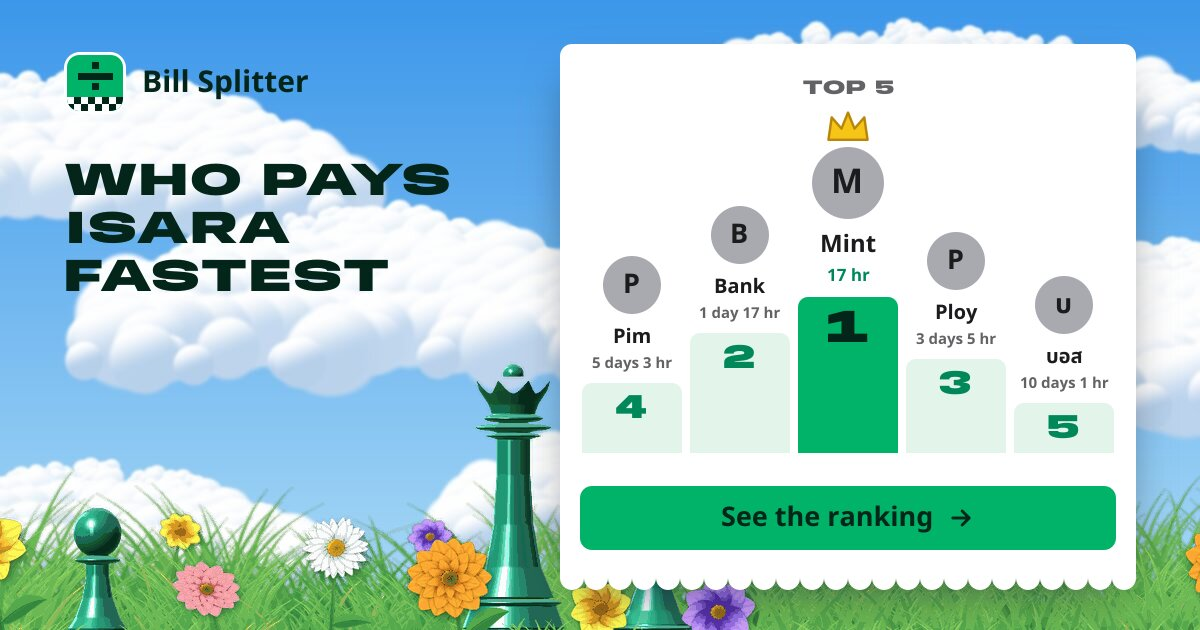
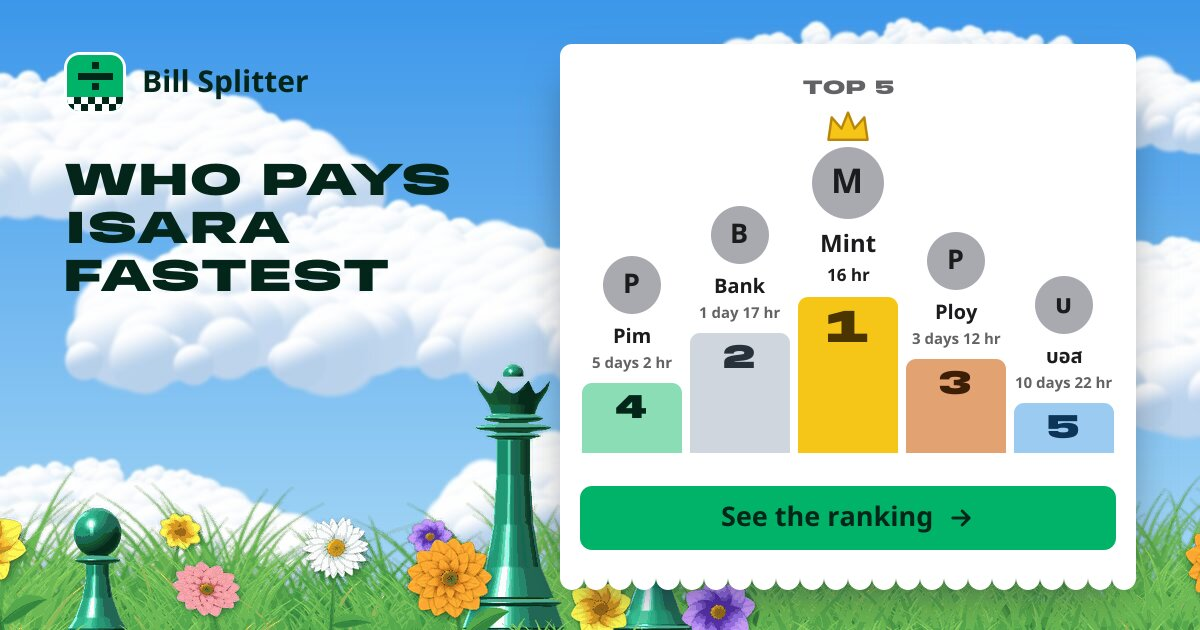
Who pays fastest: a colour for each of the top five (#33)
Gold, silver, bronze, mint and sky for places 1–5, on the podium (page and link
preview) and as badges on the ranking's top five. One palette in lib/colors.ts,
the same in light and dark. README and its two podium screenshots updated.

Changed region(s): [[0.4625, 0.4222, 0.9558, 0.7238]]

diff --git a/src/app/o/[id]/fastest/page.tsx b/src/app/o/[id]/fastest/page.tsx
@@ -7,6 +7,7 @@ import { FastestHide } from "@/components/FastestHide";
 import { FastestShare } from "@/components/FastestShare";
 import { BillHeader } from "@/components/Poster";
 import { Avatar, ICON, Money } from "@/components/ui";
+import { PLACE_COLORS } from "@/lib/colors";
 import { langOf } from "@/lib/lang";
 import { DAY, duration, payTimes, whoStillOwes, withoutHidden, withStarts, type PayerTimes } from "@/lib/owed";
 import { boardBills, boardHidden, boardSkipped, boardStarts, isValidId, storageReady } from "@/lib/server/redis";
@@ -100,9 +101,17 @@ function PayerCard({ p, rank }: { p: PayerTimes; rank: number }) {
     <li className="card overflow-hidden">
       <details className="group">
         <summary className="flex min-h-[76px] cursor-pointer list-none items-center gap-3 py-3 pr-4 pl-4 [&::-webkit-details-marker]:hidden">
-          <span className="flex w-7 shrink-0 justify-center text-[17px] font-bold text-ink-2 tabular-nums">
-            {rank === 1 ? <Trophy size={20} {...ICON} className="text-accent" aria-label="First" /> : rank}
-          </span>
+          {rank <= 5 ? (
+            <span
+              className="grid size-7 shrink-0 place-items-center rounded-full text-[15px] font-bold tabular-nums"
+              style={{ background: PLACE_COLORS[rank - 1].fill, color: PLACE_COLORS[rank - 1].ink }}
+            >
+              <span className="sr-only">Place </span>
+              {rank}
+            </span>
+          ) : (
+            <span className="flex w-7 shrink-0 justify-center text-[17px] font-bold text-ink-2 tabular-nums">{rank}</span>
+          )}
           <Avatar person={p.look} size={40} />
           <span className="min-w-0 flex-1">
             <span className="block truncate text-[17px] font-semibold" {...langOf(p.look.name)}>
@@ -185,18 +194,15 @@ function Podium({ top }: { top: PayerTimes[] }) {
             );
           return (
             <li key={p.key} className="flex w-1/5 max-w-24 min-w-0 flex-col items-center">
-              {first && <Trophy size={20} {...ICON} className="mb-1 text-accent" aria-hidden />}
+              {first && <Trophy size={20} {...ICON} className="mb-1" style={{ color: "#B8860B" }} fill={PLACE_COLORS[0].fill} aria-hidden />}
               <Avatar person={p.look} size={first ? 48 : 38} />
               <span className="mt-1 w-full truncate text-center text-[13px] font-semibold" {...langOf(p.look.name)}>
                 {p.look.name}
               </span>
-              <span className={cx("mb-1.5 w-full truncate text-center text-[11px]", first ? "font-semibold text-accent" : "text-ink-2")}>{duration(p.avgMs)}</span>
+              <span className={cx("mb-1.5 w-full truncate text-center text-[11px]", first ? "font-semibold text-ink" : "text-ink-2")}>{duration(p.avgMs)}</span>
               <span
-                className={cx(
-                  "flex w-full justify-center rounded-t-[8px] pt-1.5 text-[20px] font-bold tabular-nums",
-                  STEP[i],
-                  first ? "bg-accent-fill text-accent-ink" : "bg-[var(--field)] text-ink-2",
-                )}
+                className={cx("flex w-full justify-center rounded-t-[8px] pt-1.5 text-[20px] font-bold tabular-nums", STEP[i])}
+                style={{ background: PLACE_COLORS[i].fill, color: PLACE_COLORS[i].ink }}
               >
                 <span className="sr-only">Place </span>
                 {i + 1}

diff --git a/src/lib/server/shareImage.tsx b/src/lib/server/shareImage.tsx
@@ -2,7 +2,7 @@ import "server-only";
 import { ImageResponse } from "next/og";
 import { readFile } from "node:fs/promises";
 import { join } from "node:path";
-import { COLOR_HEX } from "../colors";
+import { COLOR_HEX, PLACE_COLORS } from "../colors";
 import { nameInitial } from "../friends";
 import { LogoMark } from "../icon";
 import { formatMoney } from "../money";
@@ -323,7 +323,7 @@ const PODIUM_W = 576;
 
 /**
  * The top five on a podium, on the same paper as a bill's receipt: each friend's initial,
- * name and average time stand on their step, #1 crowned on the green one. A place nobody
+ * name and average time stand on their step, #1 crowned; each place has its colour (gold, silver, bronze, mint, sky). A place nobody
  * has reached yet is an empty step.
  */
 function Podium({ places, cta }: { places: { name: string; color?: PersonColor; time: string }[]; cta: string }) {
@@ -377,7 +377,7 @@ function Podium({ places, cta }: { places: { name: string; color?: PersonColor; 
                 )}
                 {p && <div style={{ marginTop: 8, fontSize: first ? 24 : 20, fontWeight: 700, color: INK }}>{short(p.name)}</div>}
                 {p && (
-                  <div style={{ marginBottom: 8, fontSize: p.time.length > 10 ? 15 : 17, fontWeight: 700, whiteSpace: "nowrap", color: first ? ACCENT : INK_2 }}>
+                  <div style={{ marginBottom: 8, fontSize: p.time.length > 10 ? 15 : 17, fontWeight: 700, whiteSpace: "nowrap", color: first ? INK : INK_2 }}>
                     {p.time}
                   </div>
                 )}
@@ -389,8 +389,8 @@ function Podium({ places, cta }: { places: { name: string; color?: PersonColor; 
                     justifyContent: "center",
                     paddingTop: 8,
                     borderRadius: "10px 10px 0 0",
-                    background: first ? GREEN : p ? "#E3F4EA" : "#F2F2F7",
-                    color: first ? ON_GREEN : p ? ACCENT : "#C7C7CC",
+                    background: p ? PLACE_COLORS[i].fill : "#F2F2F7",
+                    color: p ? PLACE_COLORS[i].ink : "#C7C7CC",
                     fontFamily: DISPLAY,
                     fontSize: first ? 46 : 34,
                     fontWeight: 900,

diff --git a/src/lib/colors.ts b/src/lib/colors.ts
@@ -11,3 +11,16 @@ export const COLOR_HEX: Record<PersonColor, string> = {
   indigo: "#92C1D1",
   slate: "#A9A9B0",
 };
+
+/**
+ * "Who pays fastest" places 1–5: gold, silver, bronze, then the app's mint and a sky blue.
+ * `fill` is the step (and rank badge); `ink` is the number on it (contrast over 7:1).
+ * The same in light and dark, on the page and on the link preview.
+ */
+export const PLACE_COLORS: readonly { fill: string; ink: string }[] = [
+  { fill: "#F5C518", ink: "#4A3500" },
+  { fill: "#CFD6DD", ink: "#27313A" },
+  { fill: "#E3A272", ink: "#3D1F08" },
+  { fill: "#8ADDB5", ink: "#04261A" },
+  { fill: "#9CCBF2", ink: "#0C3557" },
+];

diff --git a/README.md b/README.md
@@ -51,7 +51,7 @@ The link preview friends see in chat:
 **History and the phone**
 - **History**, newest bill date first, with big bills holding their bills; tap a person to see their splits and what they owe you (or you owe them). Tap yourself to see what you spent.
 - **Owed to you:** every friend who still owes you, with their total, their unpaid bills and how long they've waited ("for 16 days", amber after a week). Tick a bill paid (in full or part) right there, or **Mark all paid** for a friend.
-- **Who pays fastest:** its own page (History → Who pays fastest, or from "Owed to you", the shared list, and every bill a friend opens, next to What I owe), with the top five on a podium, on the page and on its link preview. Friends are ranked by how long they take to pay, in days, hours and minutes from when the bill was shared; a bill they haven't paid counts the time so far, so not paying moves them down. Tap a friend for their average, fastest and slowest payment and every bill: when it was paid and how long it took, or how long it has waited. Ties go A–Z, and it's the same page for you and for anyone with the list. **Share** or **Copy link** sends the page (its preview shows the podium). **Hide** (only on your phone) leaves chosen friends out, or stops chosen bills counting (say, one you ticked long after it was paid), or sets when a bill really started (for bills shared before 10 Nov 2026, whose share time wasn't kept: **Use receipt times** fills it from the time printed on their receipt photo), in the ranking, the podium and the preview, for everyone. A changed start keeps the bill's own time in view under it ("Original: 9 Nov 2026, 13:25"), so you can compare without pressing **Reset**.
+- **Who pays fastest:** its own page (History → Who pays fastest, or from "Owed to you", the shared list, and every bill a friend opens, next to What I owe), with the top five on a podium (gold, silver, bronze, mint and sky, with matching badges in the ranking), on the page and on its link preview. Friends are ranked by how long they take to pay, in days, hours and minutes from when the bill was shared; a bill they haven't paid counts the time so far, so not paying moves them down. Tap a friend for their average, fastest and slowest payment and every bill: when it was paid and how long it took, or how long it has waited. Ties go A–Z, and it's the same page for you and for anyone with the list. **Share** or **Copy link** sends the page (its preview shows the podium). **Hide** (only on your phone) leaves chosen friends out, or stops chosen bills counting (say, one you ticked long after it was paid), or sets when a bill really started (for bills shared before 10 Nov 2026, whose share time wasn't kept: **Use receipt times** fills it from the time printed on their receipt photo), in the ranking, the podium and the preview, for everyone. A changed start keeps the bill's own time in view under it ("Original: 9 Nov 2026, 13:25"), so you can compare without pressing **Reset**.
 - **What I owe:** on a friend's phone, everything they still owe, grouped by who they pay (to the organiser, or to each payer): the bills they've opened, plus the same organisers' other bills they still owe on, also ones whose link they never got. **Pay** lets them tick which bills to pay (or all), with one QR for that total, and one slip pays the ticked bills, oldest first ("Already paid?" at the top uploads a slip straight away). They pick their name once from everyone who still owes in those friends' bills; picking themselves to pay or upload a slip also tells the app.
 - **Who still owes (shareable list):** one link (`/o/…`, with its own preview card) showing everyone who still owes you, A–Z, with all their unpaid bills, how long each has gone unpaid ("Unpaid for 16 days", "9 days ago") and a link to **Who pays fastest**; each person can **Pay** (one QR for their total) or upload a slip there. Copy or share it from "Owed to you".
 - **Friends** page: tap a friend to see their splits. Renaming a friend (or yourself) updates every bill you've shared, old ones too (friends typed into older bills are found by name).
